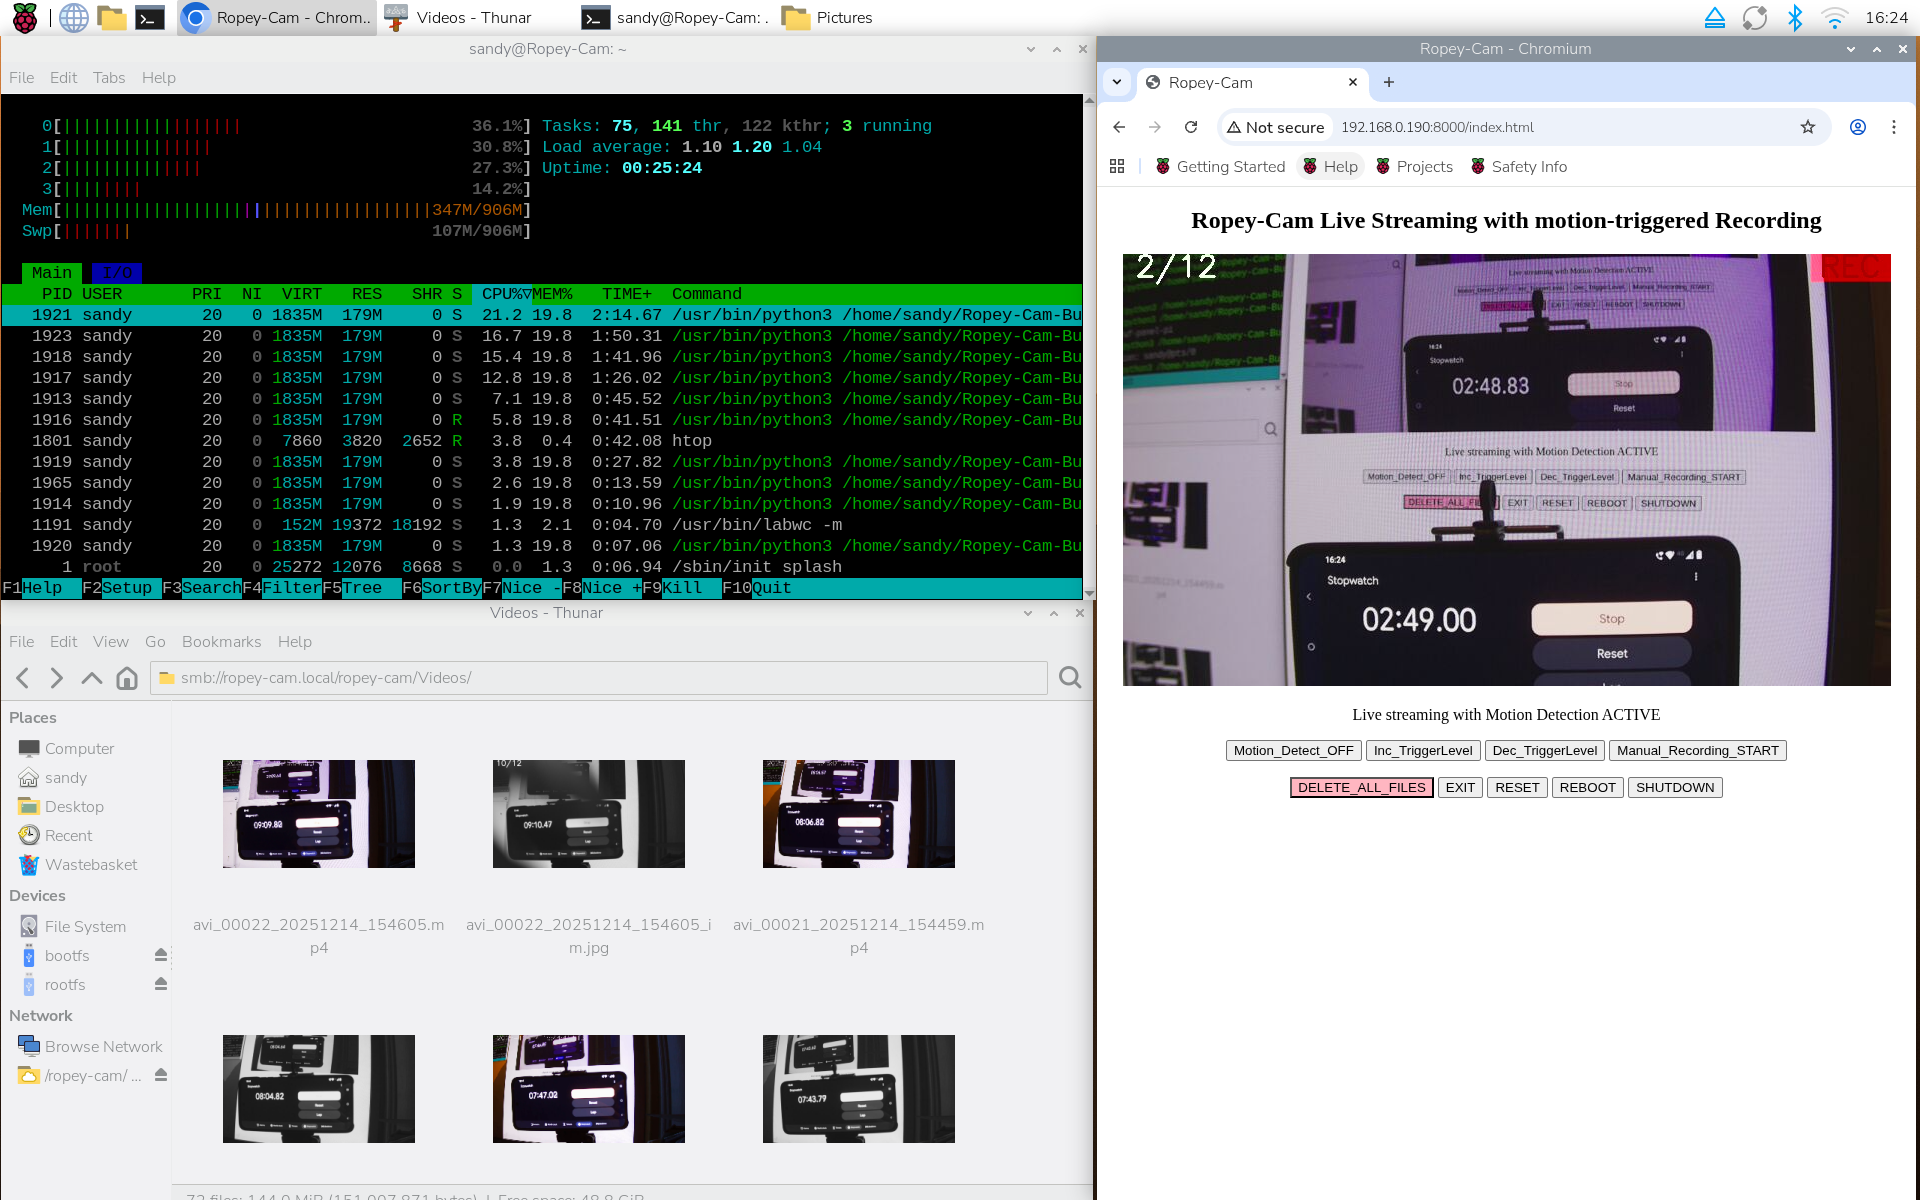
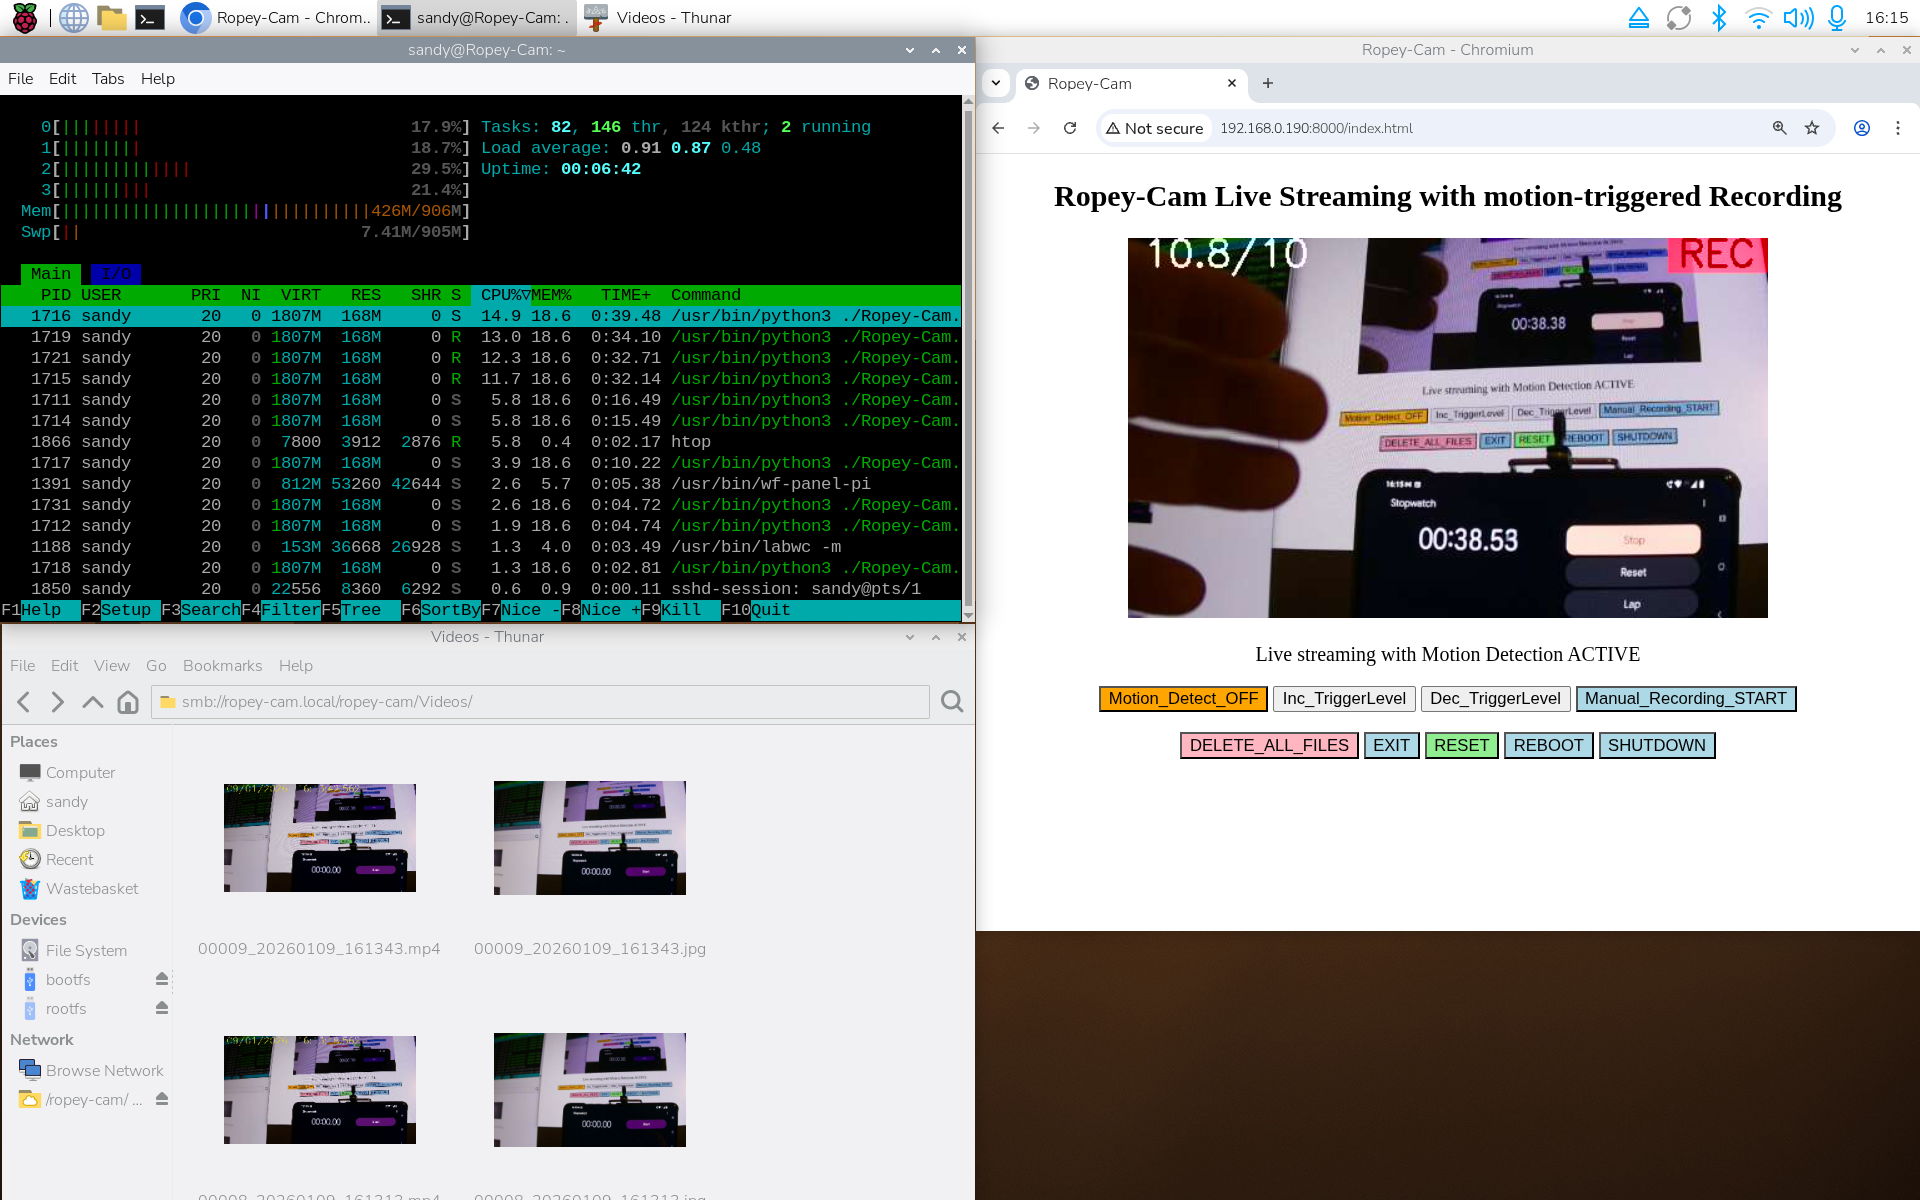
Screenshots and docs updated to reflect latest browser button configuration

diff --git a/README.md b/README.md
@@ -132,7 +132,7 @@ In the lower left the Thunar file manager is accessing the Videos subdirectory o
 
 And on the right is the browser, showing an image from the camera while it is being pointed at the browsing computer's screen - with a stopwatch in the foreground.
 
-The difference between the stopwatch time in the foreground, and the background - earlier - image of the stopwatch that has been captured, processed, passed through the network to the browser and displayed, is a measure of the system latency.  The latency of 170ms is in the mid-range of the values seen in this particular configuration, which were typically in the 150 to 190 ms range. 
+The difference between the stopwatch time in the foreground, and the background - earlier - image of the stopwatch that has been captured, processed, passed through the network to the browser and displayed, is a measure of the system latency.  The latency of 150ms is in the low range of the values seen in this particular configuration, which were typically in the 150 to 190 ms range. 
 
 ### Acknowledgements 
 

diff --git a/docs/lite.md b/docs/lite.md
@@ -40,6 +40,8 @@ Or, to avoid the console and error messages filling up the nohup output log :-
 
 ## Resources
 
-A screenshot from a Pi400 accessing Ropey-Cam.py running on a Pi3A+  shows usefully lower memory usage compared to the 'Desktop' version running on a Pi3B shown in the main page.
+A screenshot from a Pi5 browser accessing Ropey-Cam.py running on  Pi3A+,  with two ssh sessions attached, one with htop running and a second running Ropey-Cam, along with a samba share connected  - shows markedly lower memory usage than the 'Desktop' version running on a Pi3B that was shown in the main page.
+
+The latency in this case was ~200ms but was much more consistent than the Desktop version. This consistency *may* be due to the lower overall CPU usage under the Lite OS?
 
 ![Lite Installation screenshot from a Pi400](lite_screenshot.png "Screenshot")
